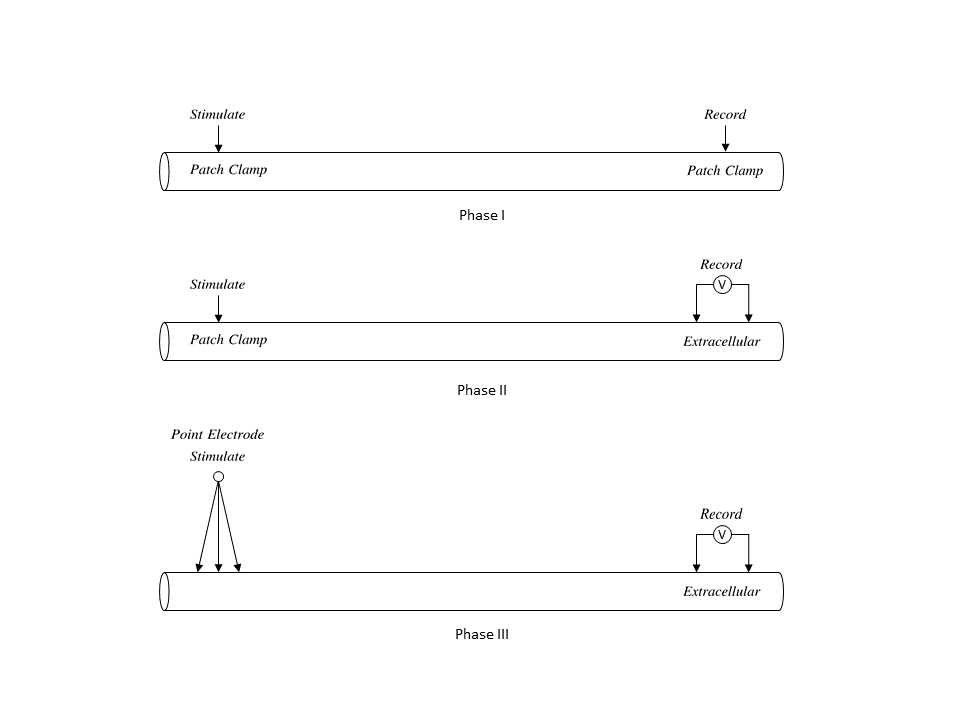
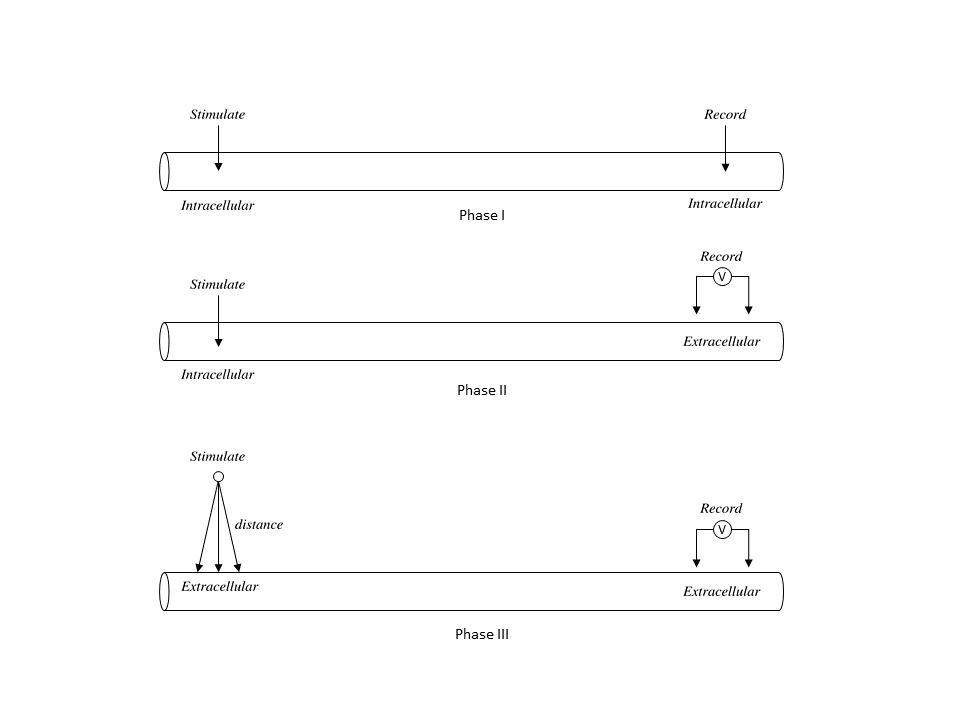
docs: adjust the project plan

diff --git a/Document/Project Plan.md b/Document/Project Plan.md
@@ -3,77 +3,65 @@
 ## 1. Introduction
 This project aims to develop a simplified nerve bundle model using the **NEURON** simulation environment to study the effect of **Electrode** to **Compound Action Potential (CAP)**.
 
-The model will begin with a **single nerve fiber** and progressively advance to a more complex **nerve bundle**. The stimulation methodology transitions from Patch Clamp to Point Electrode and ultimately to Surface Electrode. Recording techniques will evolve from Patch Clamp to Extracellular Patch.
+The model will begin with a **single nerve fiber** and progressively advance to a more complex **nerve bundle**. The stimulation methodology transitions from **intracellular** electrode to extracellular electrode (only considering the **distance** between electrode and fiber) and ultimately to extracellular electrode (considering both distance and **membrane area**). Recording techniques will evolve from **intracellular** electrode to **extracellular** electrode.
 
-The model will focus on **Axon**, omitting soma, dendritic structures, and neurotransmitter-mediated synaptic transmission.
+## 2. Scope
+For the nerve cell structure, the model will focus on **Axon**, omitting soma, dendritic structures, and neurotransmitter-mediated synaptic transmission. And this model will only consider the topology of the nerve, and ignore the anatomical shape.
 
-## 2. Procedure
+This model will take into account a **general fiber bundle** without considering a specific part of the human body or an animal. And the stimulus is a **universal electrode** and does not correspond to a specific device.
+
+## 3. Procedure
 The project is divided into five distinct phases:
-- **Phase I**: ***Single neuron fiber***, stimulation and recording via Patch Clamp.
-- **Phase II**: Single neuron fiber, stimulation via Patch Clamp, recording via ***Extracellular Patch***.
-- **Phase III**: Single neuron fiber, stimulation via ***Point Electrode*** (considering the distance between electrode and fiber), recording via Extracellular Patch.
-- **Phase IV**: ***Nerve fiber bundle*** (considering fiber diameter variability), stimulation via Point Electrode (considering distance), recording via Extracellular Patch.
-- **Phase V**: Nerve fiber bundle (considering fiber diameter variability), stimulation via ***Surface Electrode*** (considering charge density), recording via Extracellular Patch.
+- **3.1 Phase I**: Single neuron fiber, stimulation and recording via intracellular electrode.
+- **3.2 Phase II**: Single neuron fiber, stimulation via extracellular electrode (considering distance), recording via intracellular electrode.
+- **3.3 Phase III**: Single neuron fiber, stimulation via extracellular electrode, recording via extracellular electrode.
+- **3.4 Phase IV**: Nerve fiber bundle (considering fiber diameter variability), stimulation via extracellular electrode, recording via extracellular electrode.
+- **3.5 Phase V**: Nerve fiber bundle, stimulation via extracellular electrode (considering charge density to each fiber), recording via extracellular electrode.
 
-## 3. Schedule
-
-| Procedure  | Date | Result   |
-|:------|----:|:------:|
-| Phase I: Single Nueron Fiber  | 2025.03.05  | stimulation and recording via Patch Clamp |
-| Phase II: Single Nueron Fiber  | 2025.03.07  | stimulation via Patch Clamp, recording via Extracellular Patch |
-| Phase III: Single Nueron Fiber  | 2025.03.11  | stimulation via Point Electrode (considering the distance between electrode and fiber), recording via Extracellular Patch   |
-| Phase IV: Nerve fiber bundle  | 2025.03.12  | stimulation via Point Electrode (considering distance), recording via Extracellular Patch |
-| Phase V: Nerve fiber bundle  | 2025.03.13  | stimulation via Surface Electrode (considering charge density), recording via Extracellular Patch. |
+## 4. Schedule
+|Procedure|Nerve|Stimulation|Record|Date|
+|-|-|-|-|-|
+|Phase I|Single|Intracellular|Intracellular|2025.03.05|
+|Phase II|Single|Extracellular (distance)|Intracellular|2025.03.07|
+|Phase III|Single|Extracellular (distance)|Extracellular|2025.03.11|
+|Phase IV|Multiple|Extracellular (distance)|Extracellular|2025.03.12|
+|Phase V|Multiple|Extracellular (charge density)|Extracellular|2025.03.13|
 
 ![alt text](PhaseI-III.png)
 ![alt text](PhaseIV.png)
 ![alt text](PhaseV.png)
 
-## 4. Implementation
-### Programming Language
+## 5. Implementation
+### 5.1 Programming Language
 The model will be implemented using the **hoc** and **python** programming language.
 
-### 5. File Architecture
-- Topology: Definition of the modeled nerve fiber and nerve bundle structures.
-- Stimulation: Implementation of various stimulation methods across different phases.
-- Record: Implementation of different recording methods and data acquisition approaches.
+### 5.2 File Architecture
+- **Topology**: Definition of the modeled nerve fiber and nerve bundle structures.
+- **Stimulation**: Implementation of various stimulation methods across different phases.
+- **Record**: Implementation of different recording methods and data acquisition approaches.
 
-## 6. Outcome
-The expected results from this project include:
-- A stepwise approach to constructing a comprehensive CAP model.
-- Insights into the effect of stimulation methods and electrode placement on signal propagation.
-- A foundational framework for further extensions incorporating more physiological complexities.
-
-## 7. Additional Information 
-## 7.1 Stimulation Waveform
-The simulation will incorporate different types of stimulation waveforms, including:
+## 6. Stimulation
+### 6.1 Waveform
+The simulation will incorporate different types of waveforms, including:
 - **Single pulse stimulation**: A single short-duration stimulus.
 - **Biphasic pulse stimulation**: Two-phase waveform for reducing charge accumulation.
-- **Frequency-modulated stimulation**: A train of pulses with varying frequency to observe CAP response.
 
-## 7.2 CAP Recording Methods
-Different recording techniques will be used to capture the CAP response under various conditions:
-- **Patch Clamp Recording**: Measures intracellular potential changes.
-- **Extracellular Patch Recording**: Measures the field potential generated by nerve fiber activity.
-- **Far-field Recording**: Examines CAP propagation over a distance using surface electrodes.
+### 6.2 Parameters
+Each stimulation will be configured with different parameters:
+- **Amplitude**: 0mA to 5mA
+- **Duration**: 0 us to 2, 000 us
+- **Waveform Type**: Square pulse, Biphasic pulse, Sinusoidal
+- **Electrode-fiber distance**:
+- **Fiber diameter**:
+- **Charge density**:
 
-## 7.3 Experimental Variables
-The following variables will be systematically varied to study their impact on CAP:
-- **Electrode-fiber distance**: The distance between the stimulating electrode and nerve fiber (for Point and Surface electrodes).
-- **Fiber diameter variability**: Different nerve fiber diameters will be considered in nerve bundle simulations.
-- **Charge density variation**: For surface electrodes, different charge densities will be applied to study CAP generation and propagation.
+## 7. Recording
+- **Intracellular electrode**: Measures intracellular potential changes.
+- **Extracellular electrode**: Measures the extracellular potential changes.
+- **Compound action potential**: Sum the action potentials of different nerve fibers.
 
-## 7.4 Stimulation Parameters
-Each stimulation experiment will be tested with different parameters:
-- **Amplitude**: 0.1V to 5V (adjustable)
-- **Duration**: 0.1 ms to 5 ms
-- **Waveform Type**: Square pulse, Biphasic pulse, Sinusoidal stimulation
-
-
-## 7.5 Data Analysis Methods
-The recorded CAP signals will be analyzed using:
-- **Peak amplitude and latency measurement**: Evaluating the CAP response magnitude and timing.
-- **Frequency domain analysis**: Performing FFT to study the spectral components of CAP.
-- **Comparative analysis**: Comparing CAP responses under different stimulation and recording conditions.
-
-
+## 8. Outcome
+The expected results from this project include:
+- A nerve boundle model built with hoc file.
+- Some figures and animations which show the compound action potential.
+- A document show how to use the model.
